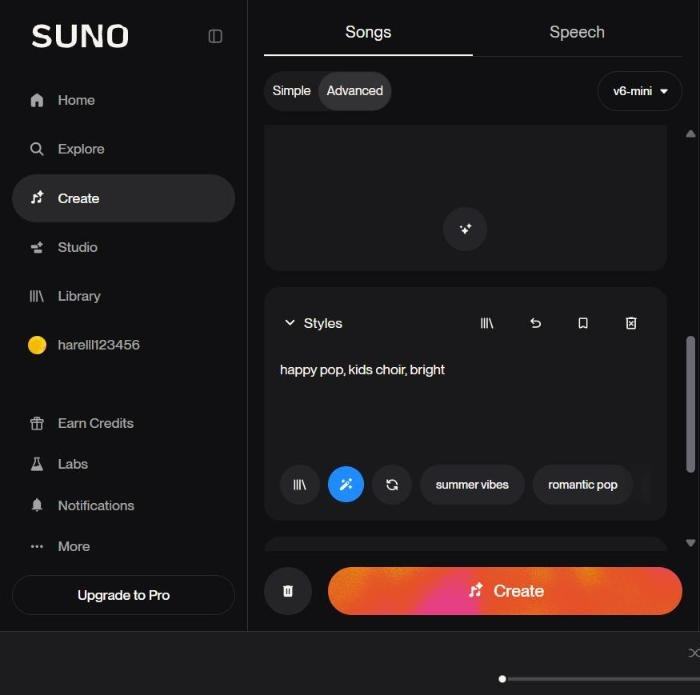
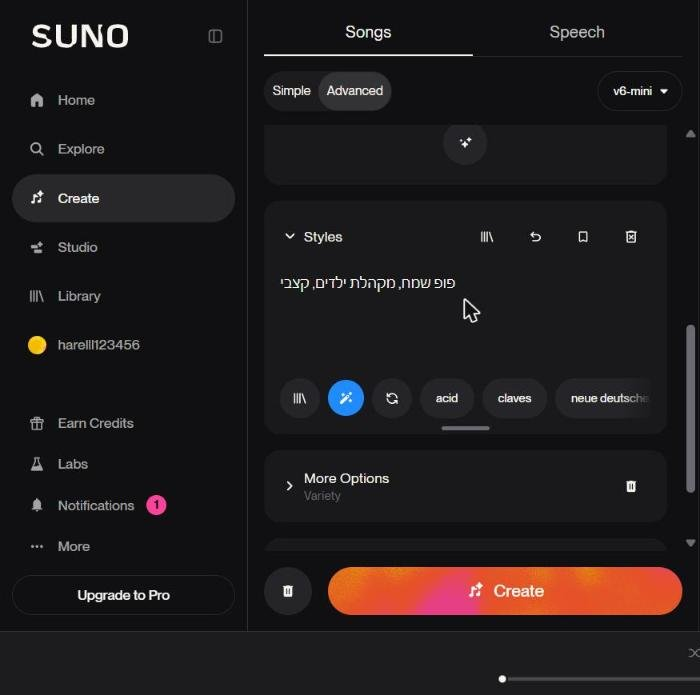
Prompt examples in Hebrew (new screenshots)

diff --git a/assets/shots2.js b/assets/shots2.js
@@ -20,7 +20,7 @@
     fullSong:     ["dialog", 48, 298, 106, 28],
     continueBtn:  ["dialog", 216, 536, 286, 56],
     lyricsBox:    ["lyrics", 264, 137, 403, 413],
-    stylesBox:    ["style", 264, 287, 403, 233],
+    stylesBox:    ["style", 264, 201, 403, 232],
     createBtn:    ["style", 328, 567, 354, 48],
     remixItem:    ["remix", 204, 91, 158, 42],
     coverItem:    ["remix", 10, 93, 188, 30],
@@ -38,7 +38,7 @@
       { mark: "fullSong",    cap: "בוחרים Full Song", click: true },
       { mark: "continueBtn", cap: "לוחצים Continue", click: true },
       { mark: "lyricsBox",   cap: "כותבים מילים חדשות לשיר" },
-      { mark: "stylesBox",   cap: "כותבים סגנון באנגלית" },
+      { mark: "stylesBox",   cap: "כותבים את הסגנון, למשל: פופ שמח, מקהלת ילדים" },
       { mark: "createBtn",   cap: "לוחצים Create", click: true }
     ],
     B: [

diff --git a/lessons/suno2.html b/lessons/suno2.html
@@ -92,7 +92,7 @@
 
   <section class="step" id="s6">
     <div class="step-head"><span class="step-num">7</span><h3>סגנון ו-Create</h3></div>
-    <p>בתיבת <span class="en">Styles</span> כותבים סגנון באנגלית, למשל <span class="en">happy pop, kids choir</span>. אחר כך לוחצים <span class="en">Create</span>.</p>
+    <p>בתיבת <span class="en">Styles</span> כותבים סגנון, למשל <b>פופ שמח, מקהלת ילדים</b>. אחר כך לוחצים <span class="en">Create</span>.</p>
     <figure class="real" data-shot="style" data-marks="stylesBox:8,createBtn:9" aria-label="תיבת Styles וכפתור Create מסומנים"></figure>
   </section>
 
